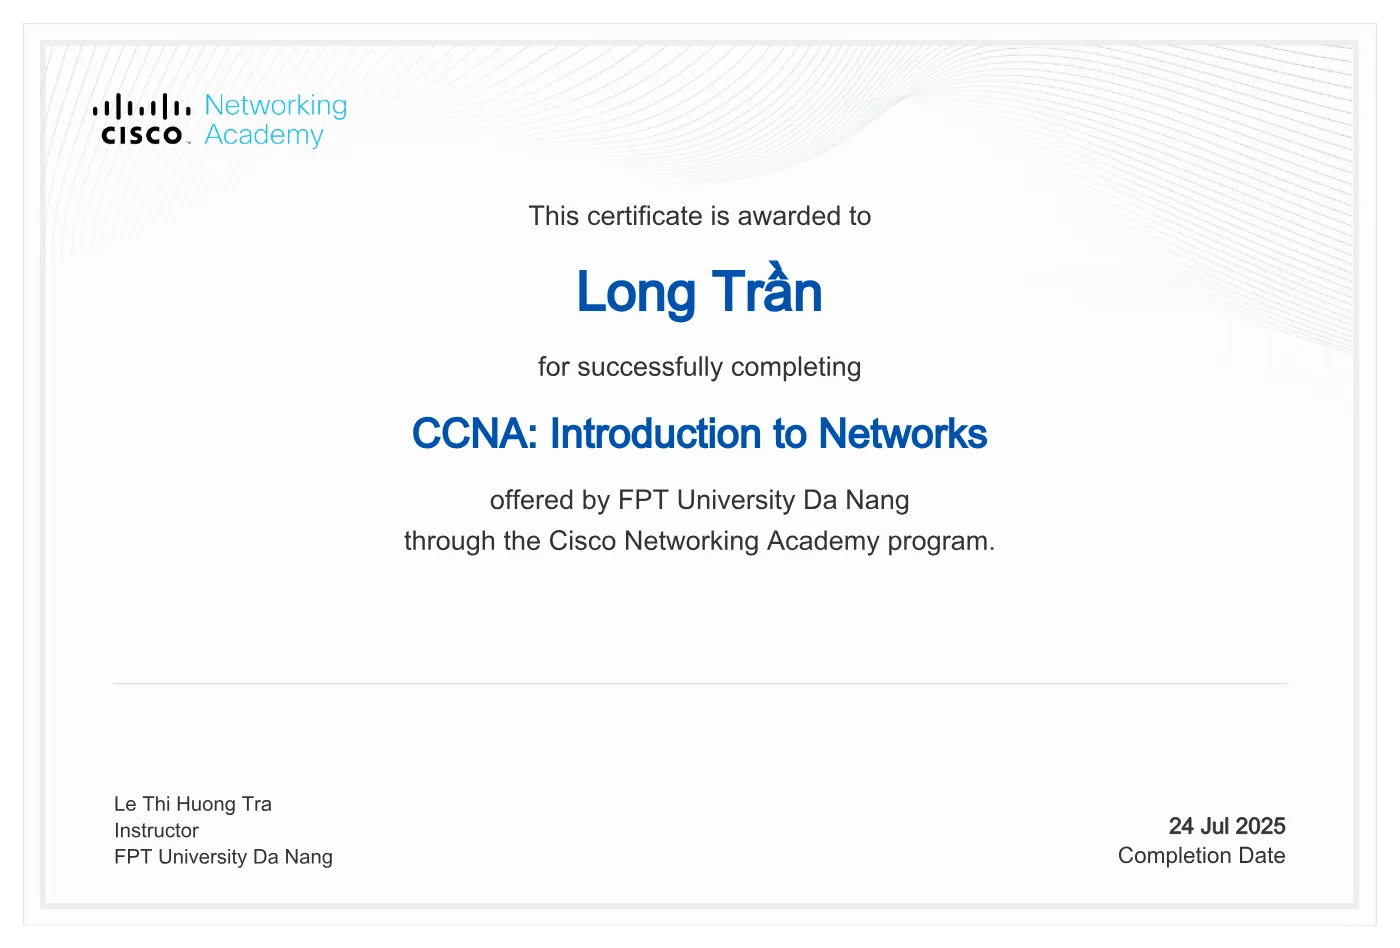
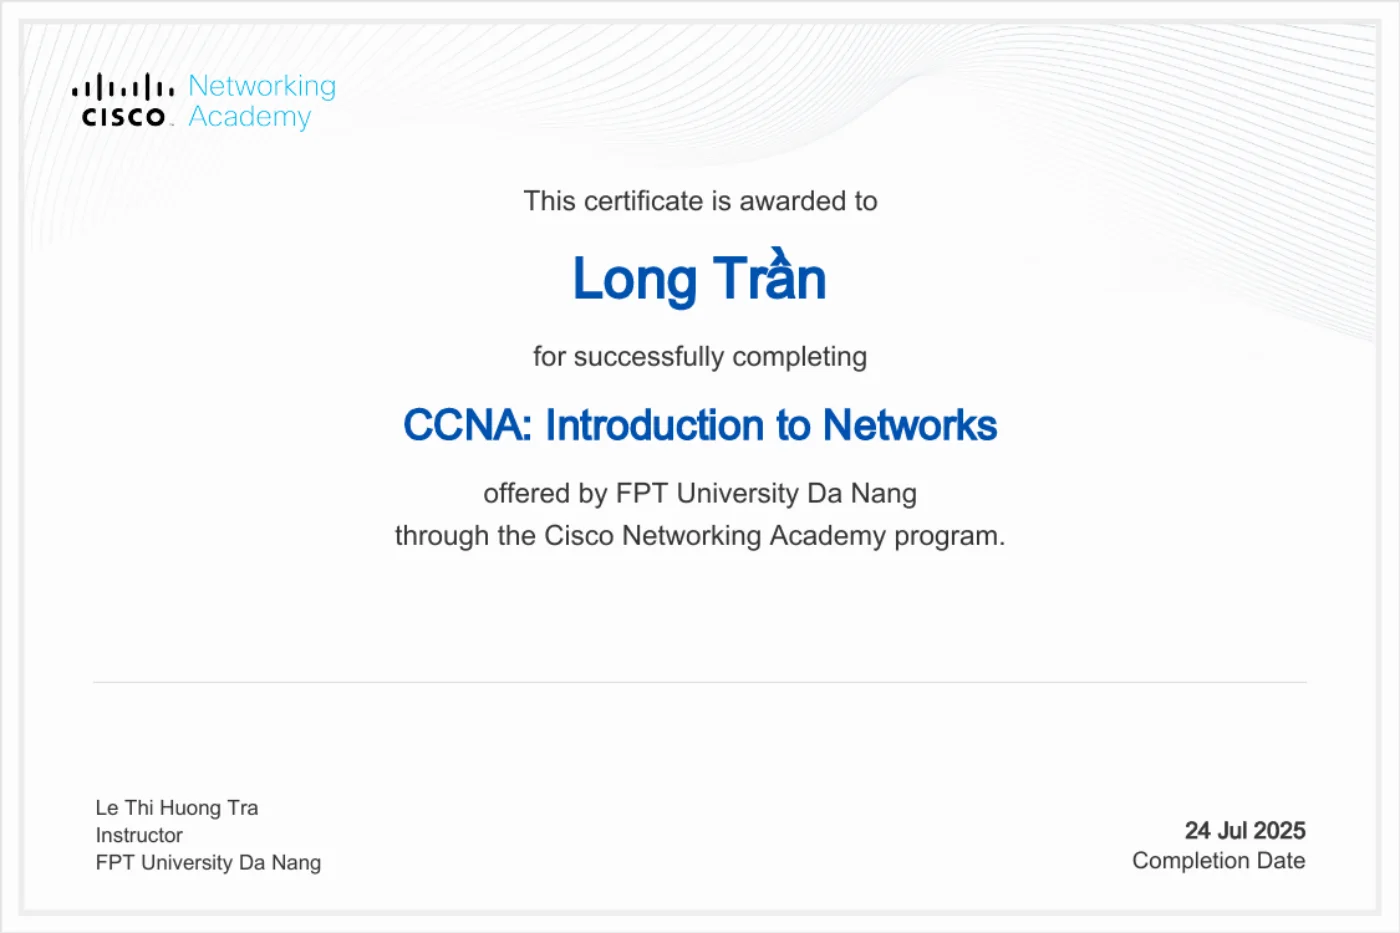
feat: add the Coursera certificate scans
All three certificates now preview on hover. The two Coursera scans come
from screenshots rather than from their PDFs: pdf.js' Node renderer kept
dropping the entire middle column of those files (recipient, date, email
and description), drawing only the ungrouped bold text, and neither a
custom canvas factory nor glyph-outline rendering recovered it. The CCNA
PDF rendered correctly because it is a single embedded raster.

Each scan is auto-cropped to the certificate itself so the PDF viewer's
grey frame does not show in the preview panel, then encoded to WebP at
1400px wide (44-100 KB). The declared width/height in data match the
encoded files exactly, checked against the WebP headers, so next/image
reserves the right space and nothing shifts.

Link and image stay independent: CCNA has a scan but no verification page,
IELTS has neither.

diff --git a/data/certifications.ts b/data/certifications.ts
@@ -9,10 +9,15 @@ import type { Certification } from "@/types";
  *   - `href`  — a real verification page. Coursera issues one; Cisco does not.
  *   - `image` — a scan of the certificate, used for the hover preview.
  *
- * CCNA therefore has an image and no link; IELTS has neither and stays a plain
+ * CCNA therefore has a scan and no link; IELTS has neither and stays a plain
  * row. Nothing here is fabricated to make the set look uniform — a dead
  * verification link is the single worst thing this section could ship, because
  * a recruiter who clicks one stops believing the rest of the page.
+ *
+ * Scans are cropped to the certificate itself (the PDF viewer's grey frame is
+ * trimmed) and encoded to WebP at 1400px wide. `width`/`height` are the real
+ * encoded dimensions — next/image uses them to reserve space, so a wrong value
+ * shows up as layout shift.
  *
  * Presentation note: rendered as a compact strip rather than as cards. These
  * are peripheral to backend and data engineering, and card-sized weight would
@@ -25,6 +30,11 @@ export const certifications: readonly Certification[] = [
     issuer: "The Hong Kong University of Science and Technology",
     date: "Apr 2026",
     href: "https://coursera.org/share/eb6b29f0296148a4faca819d9e72fc77",
+    image: {
+      src: "/certificates/software-engineering.webp",
+      width: 1400,
+      height: 1116,
+    },
   },
   {
     id: "aws-genai",
@@ -32,13 +42,18 @@ export const certifications: readonly Certification[] = [
     issuer: "Amazon",
     date: "Feb 2026",
     href: "https://coursera.org/share/6a1f2907d1ce41297760af7915663c04",
+    image: {
+      src: "/certificates/generative-ai.webp",
+      width: 1400,
+      height: 1087,
+    },
   },
   {
     id: "ccna",
     name: "CCNA: Introduction to Networks",
     issuer: "Cisco Networking Academy",
     date: "Jul 2025",
-    image: { src: "/certificates/ccna.webp", width: 1400, height: 948 },
+    image: { src: "/certificates/ccna.webp", width: 1400, height: 933 },
   },
   {
     id: "ielts",
